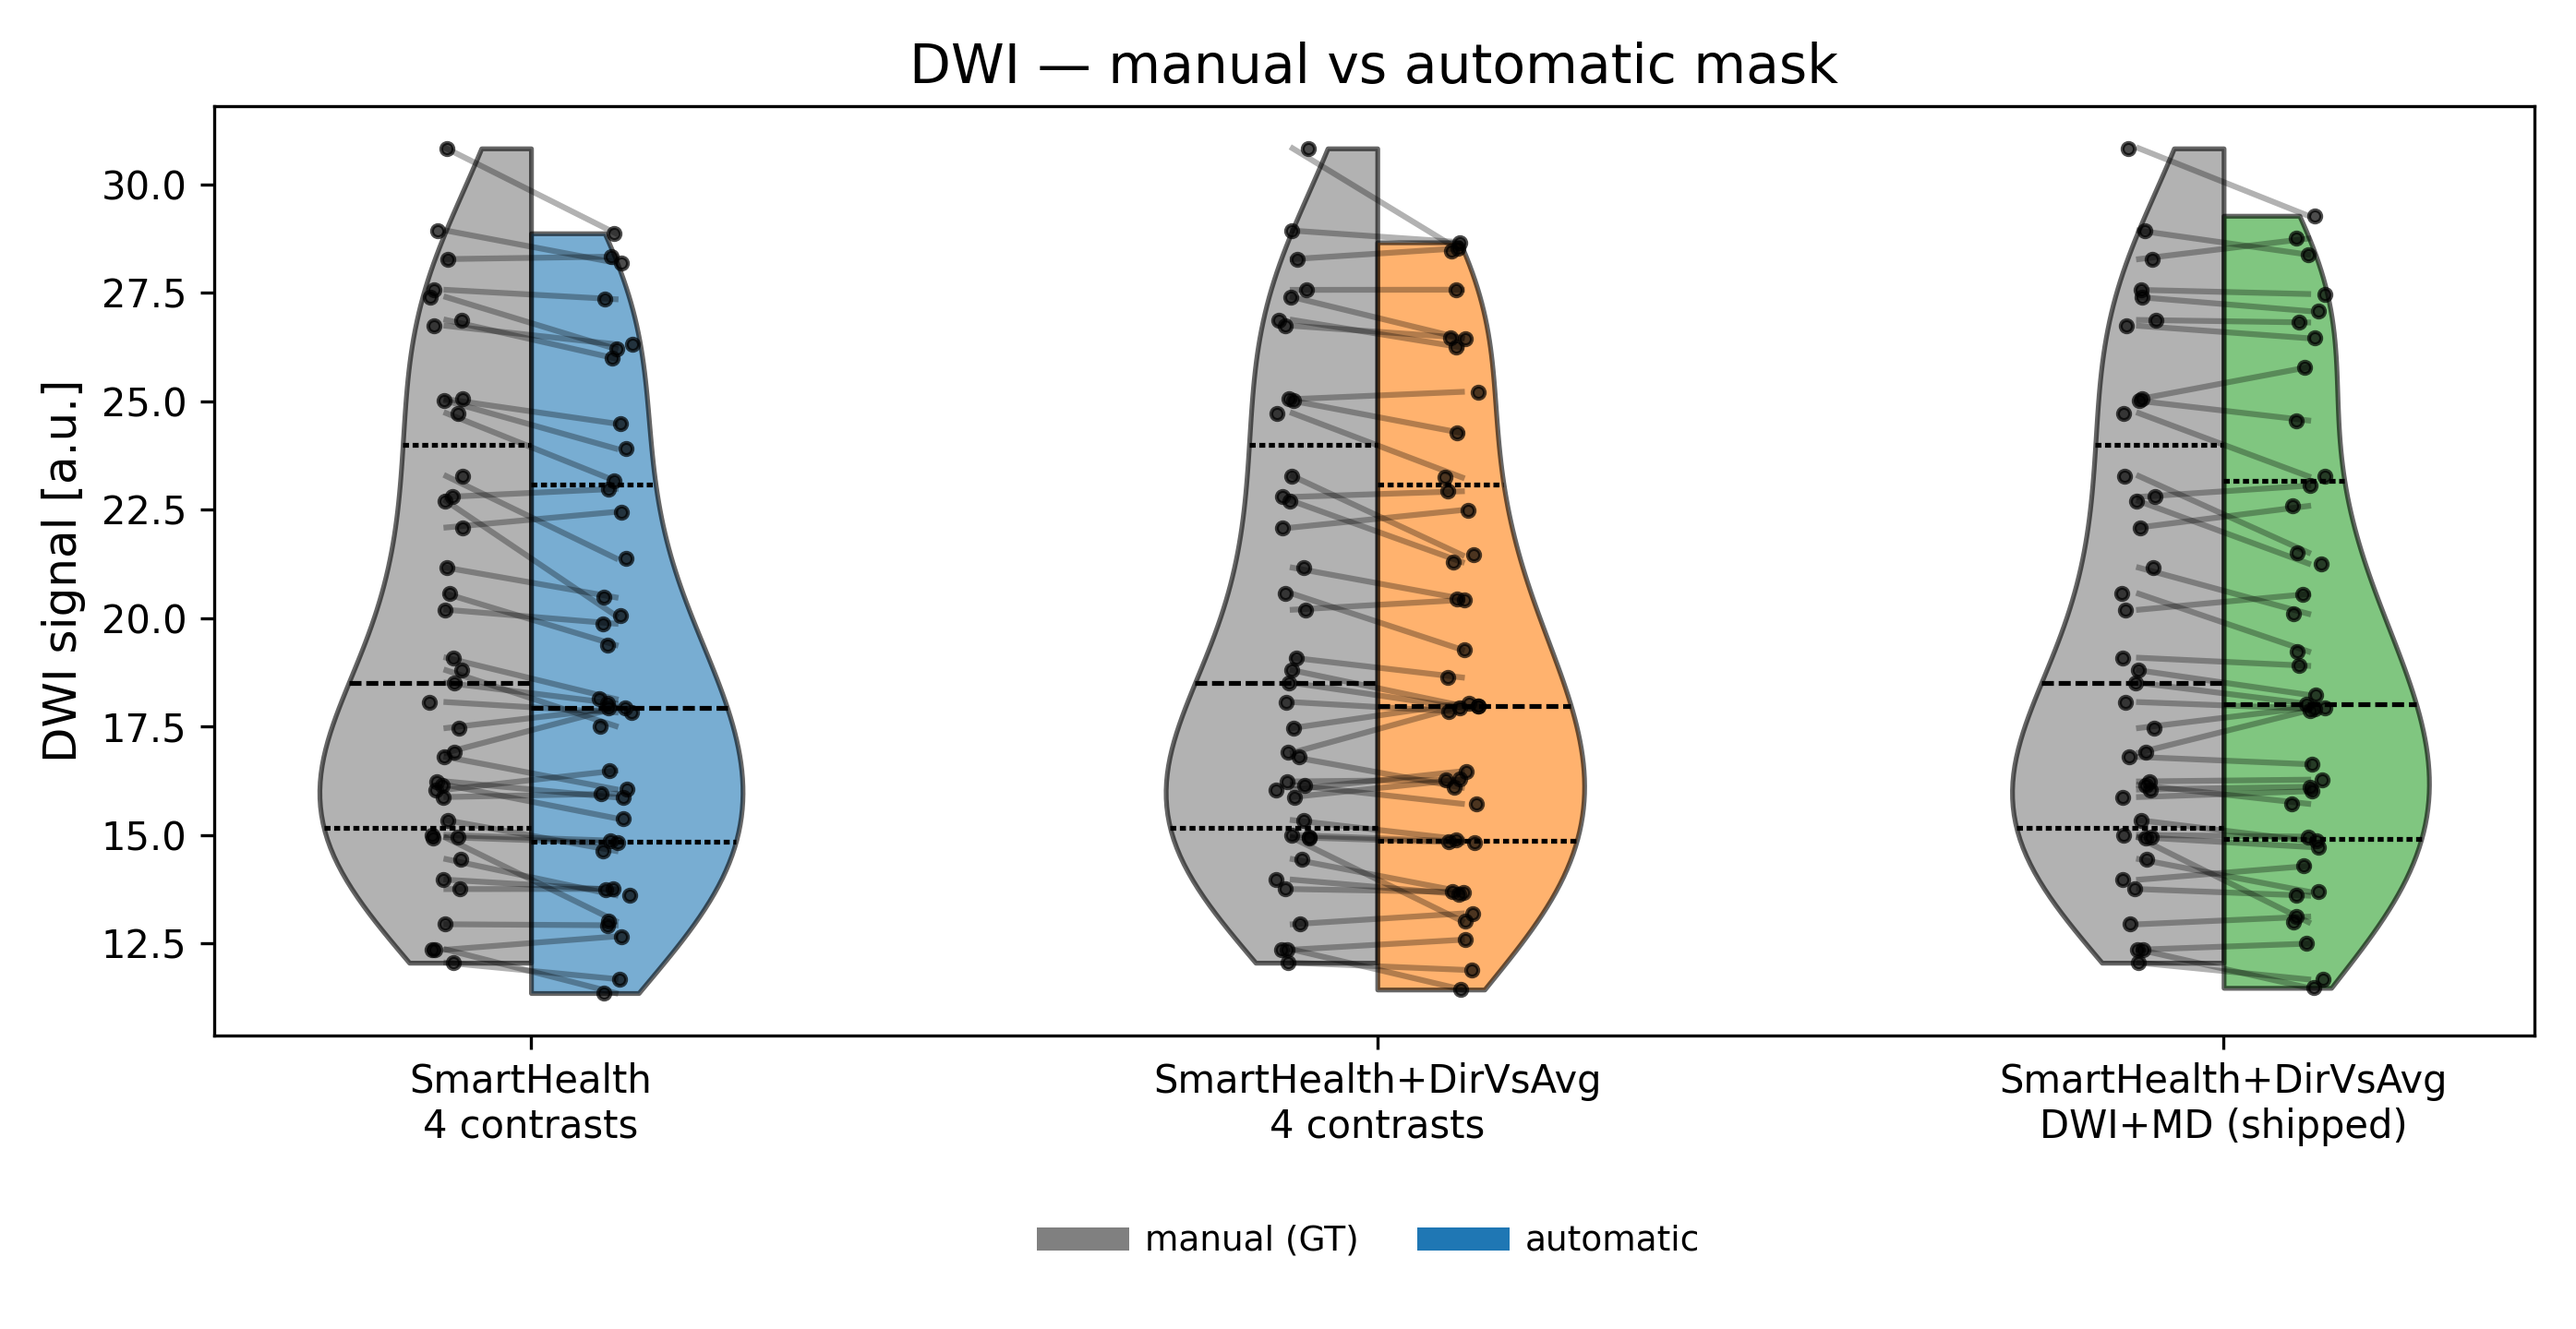
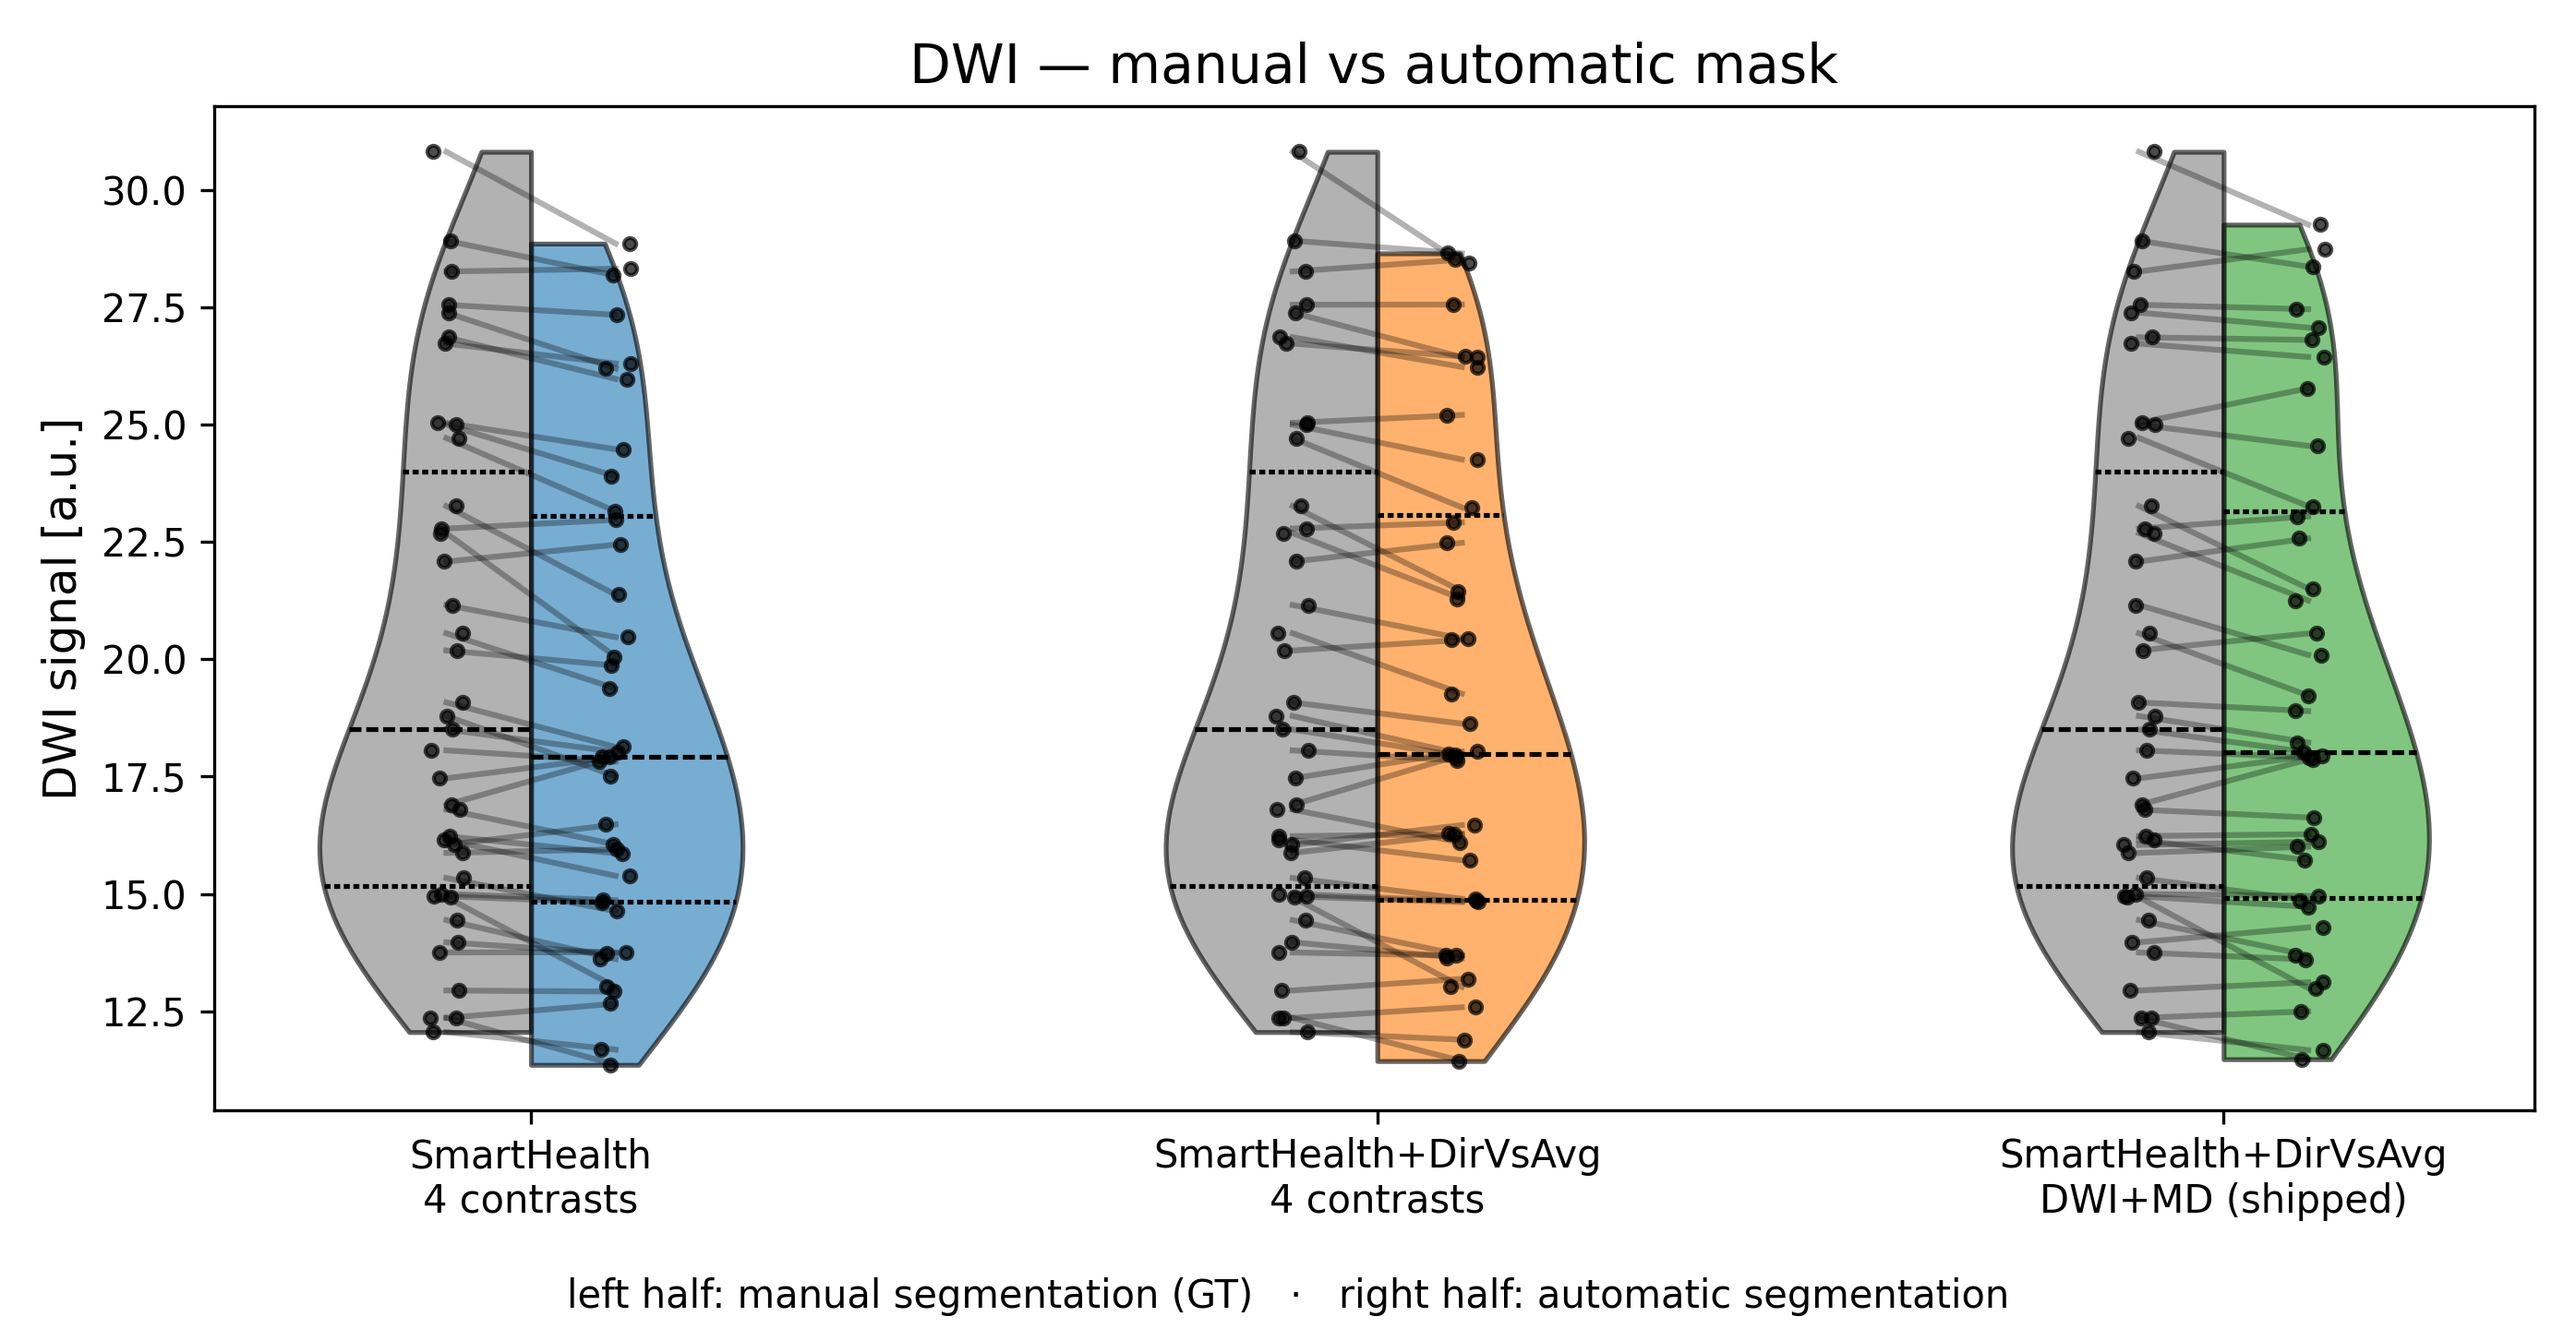
Plots: replace mismatched colour legend with left/right (manual/automatic) note

diff --git a/readme.md b/readme.md
@@ -142,7 +142,7 @@ Insertion-point error: median ~2.3 mm, but a few slices miss by 30–55 mm.
 
 ![Insertion points](results/ip_hausdorff_violin.png)
 
-Split violins: grey = value inside the manual mask, colour = inside the automatic mask; lines pair the same slice.
+Split violins: left half = value inside the manual mask, right half = inside the automatic mask; lines pair the same slice.
 All numbers (mean / median / std per run): [`results/summary.csv`](results/summary.csv).
 
 Training and evaluation code (ongoing development): branch `crop-alignment-and-hap-fixes`
